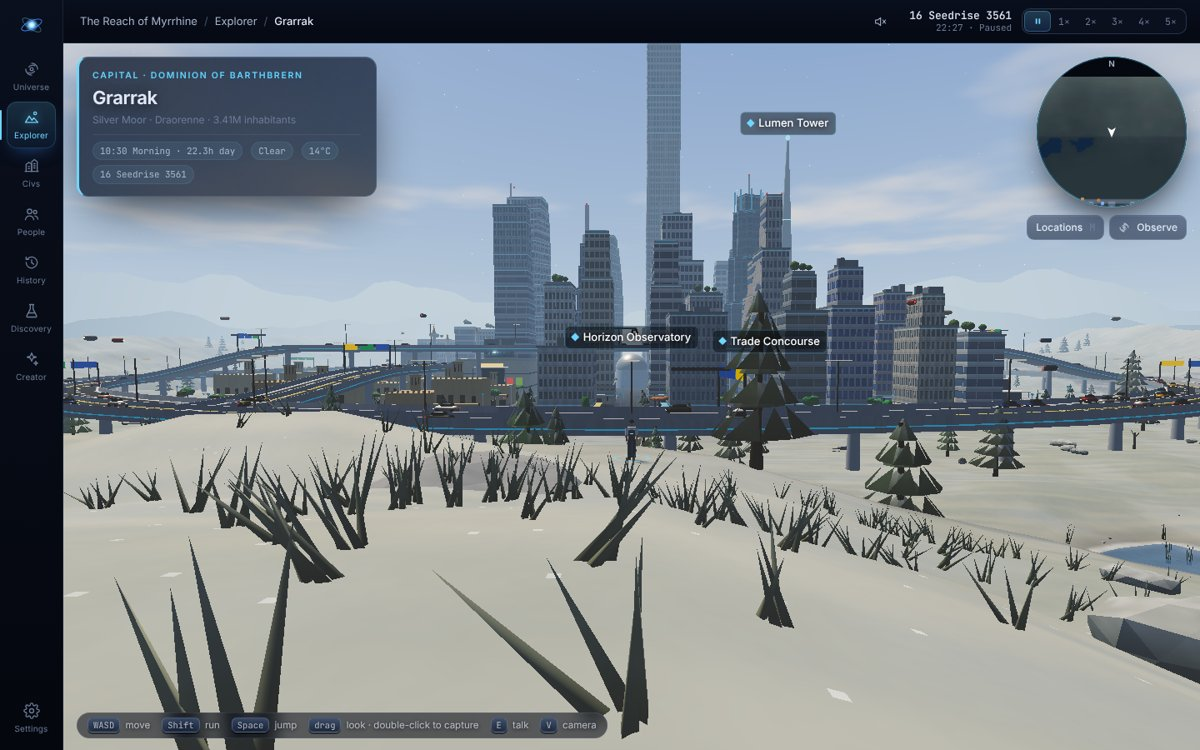
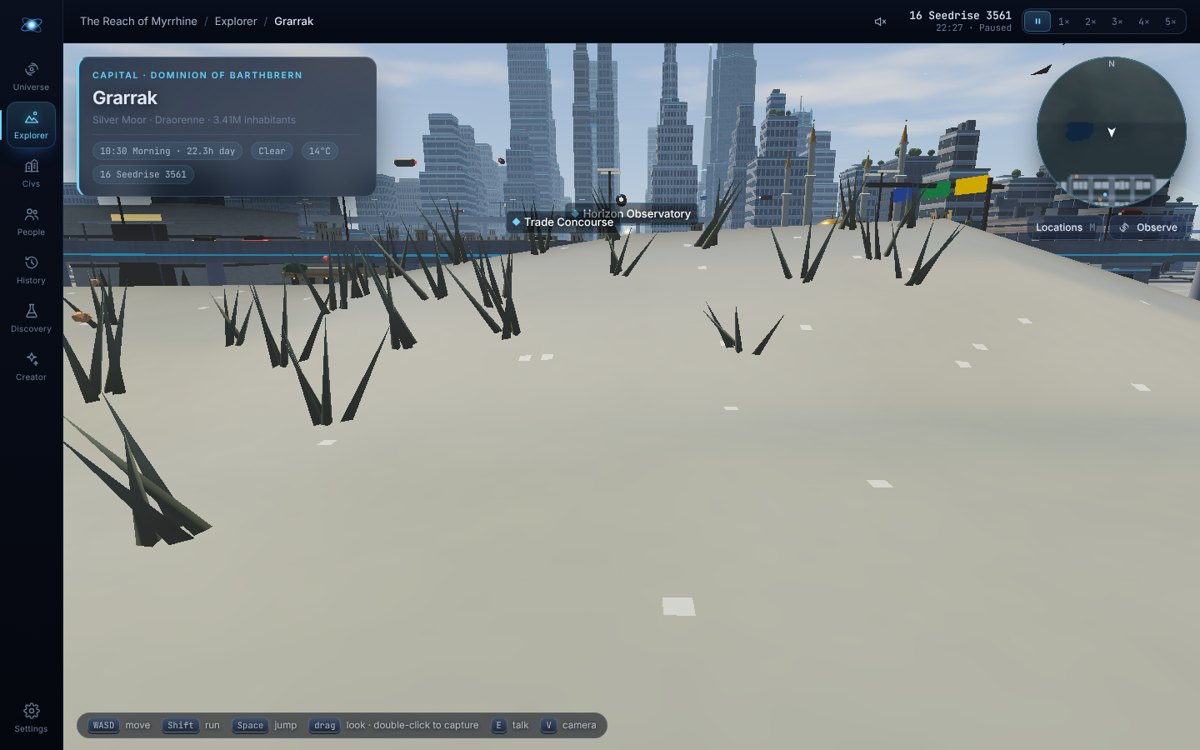
Docs: Phase 6 mansions and distribution, plan map and screenshots
Claude-Session: https://claude.ai/code/session_014yo4DpHJhzR4RbKay17FEp

diff --git a/PHASE2_REPORT.md b/PHASE2_REPORT.md
@@ -339,6 +339,62 @@ What makes a Gulf city read as varied is its zoning. There is a supertall downto
 
   The fps comparison against the baseline was not re-run after this phase.
 
+## Phase 6: grander mansions, places of worship spread out, bigger cities
+
+Requested: "The mansions should look much better… distribute the buildings, mosques and all much better… all the temples, mosques and other religious things are in one area… if they don't fit, make the city bigger."
+
+**City size and distribution** (`layout.ts`, `terrain.ts`)
+- **Bigger cities.** Futuristic cities are larger: capital radius 175 → 262 m, city 145 → 215, town 110 → 150, outpost 75 → 95. Their terrain grows from 720 m to 960 m across, with resolution scaled so detail per metre is unchanged, so the framing mountains still start beyond the city. The ring road sits 26 m outside the city, and its countryside ramps were shortened to fit.
+- **Districts.** Two villa enclaves sit on opposite sides of the outer ring. There is a souk sector, downtown within 36 % of the radius, mixed blocks elsewhere, and pocket parks (four in a capital).
+- **Worship sites and malls.** They are placed by farthest-point spreading: each new site goes to the allowed block farthest from everything already placed. The allowed districts are:
+  - mosques: mixed, souk and villas;
+  - temples: mixed, villas and souk;
+  - the church: mixed and villas.
+
+  A capital gets 4 mosques, 2 temples, 1 church and 2 malls. A city gets 3, 1, 1 and 1.
+- **Reference capital (seed `vis-check-3`).** The plan in `docs/screenshots/districts/district-map.jpg` is drawn from the real layout:
+  - mosques stand in all four quarters (two in villa enclaves, one in the souk);
+  - one temple stands to the north and one to the north-east, and the church to the east;
+  - the nearest two worship sites are 130 m apart.
+- **Estates.** Villa estates occupy two neighbouring blocks with the street between them closed, never across the inner avenues that carry the expressways. Plots are about 60 × 24 m, with houses of 19–24 × 12–14 m and 9.5–12.5 m tall (up to three floors). Single-block villas remain where no pair fits.
+
+**Mansions rebuilt** (`districts.ts`), six styles:
+- **Common to every style.**
+  - Framed windows on every face, with a mullion and transom and a projecting sill.
+  - A stone plinth, flower beds and facade uplights.
+  - Striped lawns and walls with coping, or clipped hedges.
+  - Lamp piers along the frontage, gate piers with lamps or urns, iron gates.
+  - A kerbed drive with lamp posts and one or two cars, and trees along the back wall.
+- **Estates also have** a pool with a deck, loungers, an umbrella and a pool house, plus one of:
+  - a tennis court with lines and a net;
+  - a formal parterre of clipped hedges round a tiered fountain, with topiary cones and a flower bed;
+  - a marble gazebo with a table.
+- **The six styles:**
+  - **Modern:** floor-to-ceiling glazing with mullions, a cantilevered upper floor with timber or stone fins, thin roof planes with lit soffits, a glass penthouse on three-floor houses, a stone feature wall and an entrance canopy.
+  - **Mediterranean:** a hipped terracotta roof with eaves and a chimney, an arcaded loggia carrying a balustraded balcony, arched French doors, shuttered windows all round, a hipped wing, and bougainvillea climbing the corners.
+  - **Courtyard palace:** U-shaped round a marble courtyard with arcades, a tiered fountain and palms. It has crenellations, a great dome on a windowed drum, two small domes, two slatted wind towers, wooden oriels and a crenellated arched gateway.
+  - **Classical:** rustication, a string course, a cornice with a balustrade and urns, a cupola, and pedimented windows. A portico of four or six columns with bases and capitals stands on steps, and wings carry their own balustrades.
+  - **Glass pavilion:** two glass volumes crossing at right angles under white roof plates with a lit soffit, a stone wall, a timber deck and a fire pit with lounge seats.
+  - **Tropical** (new): timber-framed glass pavilions under deep hipped roofs, joined by a covered walk, with a lily pond, stepping stones and stone lanterns.
+- **Night.** Windows light up room by room, pools glow, and lamps line the walls and drives.
+
+**New buildings**
+- **Church:** a buttressed nave with stained-glass lancets, an apse, a west tower with belfry openings, pinnacles and a tall slate spire with a cross, a rose window, and a churchyard with yews.
+- **Pocket parks:** crossing paths, a tiered fountain, trees or palms, flower beds, benches and lamps.
+
+**Verification**
+- Tests (`tests/world3d.test.ts`):
+  - capitals have at least six worship sites, other big cities at least four;
+  - no two are closer than two blocks (72 m);
+  - they stand in at least two districts and at least three quarters of the city;
+  - estates exist;
+  - every villa has more than 80 pieces, all inside its plot;
+  - churches and parks are built;
+  - all six styles occur across the universe.
+- Screenshots of every style (estates and single plots), the church, a park, mosques, the temple, the skyline, night estates and the plan map are in `docs/screenshots/districts/`.
+- **Renderer cost** (futuristic capital, medium): 415 draw calls and 1.19M triangles per frame, against 390 and 579k before this phase. Software frame time stayed about 1.06 s.
+- **Not done:** the browser journey and the fps comparison against the baseline were not re-run after this phase. Garden walls still have no colliders.
+
 ## Limitations and unfinished items
 
 - **Frame-rate targets unproven** (55 fps at 5× in Universe; 60 fps with ≥ 150 figures on medium): no GPU in this environment. Measured relative to the baseline under software rendering, the current build is 2–3× slower at medium (see Phase 4).

diff --git a/README.md b/README.md
@@ -33,7 +33,7 @@ npx vite-node scripts/soak.ts 100                         # headless 100-year so
 | Section | What you can do |
 |---|---|
 | **Universe** | Spiral galaxy map → star systems with orbiting planets → rotating planet globes with territories, settlements and clickable regions. Any settlement or wild region can be entered in Explorer; gas and ice giants have floating cloud-platform outposts. |
-| **Explorer** | Third-/first-person 3D exploration. Procedural terrain and vegetation. Cities in three architectural styles: futuristic cities laid out in districts (a supertall downtown with a signature tower, a villa quarter of mansions in five styles with pools and palms, a souk of arcaded shophouses with wind towers, a mall, a mosque and a temple) with multi-level highways, rooftop gardens and traffic; organic domes and tree-houses; stone-and-timber frontier towns with smoking chimneys. Wild regions have biome-specific trees, ground cover and structures (adobe villages, temples and skeletons in deserts; igloo camps, ice caves and auroras on frozen worlds; stone circles and ruined towers in temperate lands), plus birds, butterflies and fireflies. People are articulated figures with individual outfits and walk cycles, and the player can walk up highway ramps onto the decks. Landmarks to discover. Inhabitants who walk to work, meet friends and go home to sleep according to the simulation. Each planet has its own day length; sky, fog and light follow the planet type and its star's class. Ambient crowds scale with population, time of day and weather. A minimap, and conversations built from each person's memories, goals, relationships and the recorded causes of recent events. |
+| **Explorer** | Third-/first-person 3D exploration. Procedural terrain and vegetation. Cities in three architectural styles: futuristic cities laid out in districts (a supertall downtown with a signature tower, two villa enclaves of walled estates with mansions in six styles, pools, tennis courts and formal gardens, a souk of arcaded shophouses with wind towers, malls, pocket parks, and mosques, temples and a church spread across the city) with multi-level highways, rooftop gardens and traffic; organic domes and tree-houses; stone-and-timber frontier towns with smoking chimneys. Wild regions have biome-specific trees, ground cover and structures (adobe villages, temples and skeletons in deserts; igloo camps, ice caves and auroras on frozen worlds; stone circles and ruined towers in temperate lands), plus birds, butterflies and fireflies. People are articulated figures with individual outfits and walk cycles, and the player can walk up highway ramps onto the decks. Landmarks to discover. Inhabitants who walk to work, meet friends and go home to sleep according to the simulation. Each planet has its own day length; sky, fog and light follow the planet type and its star's class. Ambient crowds scale with population, time of day and weather. A minimap, and conversations built from each person's memories, goals, relationships and the recorded causes of recent events. |
 | **Civilisations** | Culture, government, policies, economy (production, consumption, reserves, prices, trade), technology, diplomacy, settlements and history. Satisfaction, stability and diplomatic opinion all come with a breakdown of what drives them. |
 | **Characters** | Every tracked inhabitant has personality, needs, skills, goals, relationships, memories and a life history. The detail view shows the live utility scores behind their current choice, plus a relationship graph. You can follow anyone. |
 | **History** | A timeline you can filter by category, importance, civilisation and source. Each event records its cause, its trigger (an activity, memory or threshold crossing), the state it changed (before → after), a collapsible cause tree several levels back, and what followed. Events downstream of a creator intervention are marked. Old history is archived and loaded on demand. |
